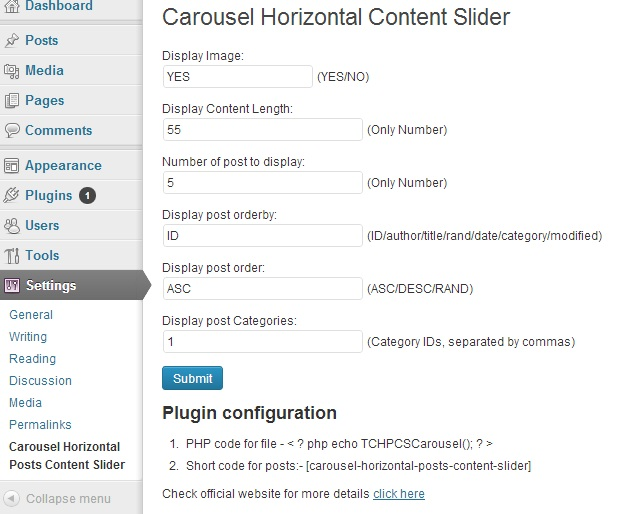
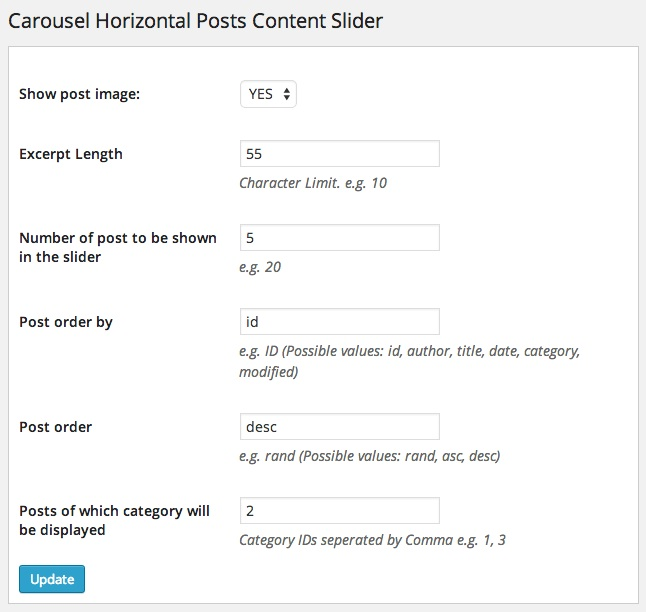
tagging version 3.2
git-svn-id: https://plugins.svn.wordpress.org/carousel-horizontal-posts-content-slider/tags/3.2@923567 b8457f37-d9ea-0310-8a92-e5e31aec5664

diff --git a/css/custom-style.css b/css/custom-style.css
@@ -1,51 +1,60 @@
 @CHARSET "ISO-8859-1";
+.chpcs_clearfix {
+	float: none;
+	clear: both;
+}
 
-h2{
-	clear:none;
-	line-height:15px;
-	font-family:Georgia,serif;
-	font-size:12px;
+/*read more text */
+.chpcs_more{
+	color:#ca7700;
+	font-family:Verdana,Geneva,sans-serif;
+	font-size:11px;"
+}
+
+.chpcs_foo_con{
+	font-family:Verdana,Geneva,sans-serif;
+	font-size:11px;
 	font-weight:normal;
 	font-style:normal;
-	color:#000;
-	margin:0 0 5px 0;"
+	color:#222222;
 	width:140px;
 	height:auto;
 }
 
-.more{
-	
-	color:#ca7700;
-	font-family:Verdana,Geneva,sans-serif;
-	font-size:11px;"
-	
+.chpcs_image_carousel h2{
+	font-size: 14px;
 }
 
-.foo_con{
-
-font-family:Verdana,Geneva,sans-serif;
-font-size:11px;
-font-weight:normal;
-font-style:normal;
-color:#222222;
-width:140px;
-height:auto;
-}
-
-.image_carousel {
+.chpcs_image_carousel {
 	padding: 15px 0 15px 40px;
 	position: relative;
 }
-.image_carousel img {
+
+/*  image of posts on slider */
+.chpcs_image_carousel img {
 	border: 1px solid #ccc;
 	background-color: white;
 	padding: 9px;
 	margin:5px 0 5px 0;"
 	display: block;
 	float: left;
-	
+	width: 115px;
+	height: 115px;
 }
-a.prev, a.next {
+
+#chpcs_foo_content{
+	padding: 9px;
+	margin: 7px;
+	display: block;
+	float: left;
+	height:auto;
+	width:150px;
+	min-height:150px;
+	max-height:280px;
+}
+
+/* Controls of Slider */
+a.chpcs_prev, a.chpcs_next {
 	background: url(../images/miscellaneous_sprite.png) no-repeat transparent;
 	width: 45px;
 	height: 50px;
@@ -53,34 +62,13 @@ a.prev, a.next {
 	position: absolute;
 	top: 85px;
 }
-
-#foo_content{
-	
-	padding: 9px;
-	margin: 7px;
-	display: block;
-	float: left;
-	height:auto;
-
-	width:150px;
-	min-height:150px;
-	max-height:280px;
-	
-	
-}
-
-
-a.prev {			left: -22px;
+a.chpcs_prev {			left: -22px;
 					background-position: 0 0; }
-a.prev:hover {		background-position: 0 -50px; }
-a.next {			right: -22px;
+a.chpcs_prev:hover {		background-position: 0 -50px; }
+a.chpcs_next {			right: -22px;
 					background-position: -50px 0; }
-a.next:hover {		background-position: -50px -50px; }
+a.chpcs_next:hover {		background-position: -50px -50px; }
 
-a.prev span, a.next span {
+a.chpcs_prev span, a.chpcs_next span {
 	display: none;
-}
-.clearfix {
-	float: none;
-	clear: both;
 }

diff --git a/slider-management.php b/slider-management.php
@@ -1,16 +1,11 @@
 <?php
-echo "<div class='wrap'>";
-echo "<h2>";
-echo "Carousel Horizontal Content Slider";
-echo "</h2>";
 $tchpcs_displayimage = get_option('tchpcs_displayimage');
 $tchpcs_displaydesc = get_option('tchpcs_word_limit');
 $tchpcs_query_posts_showposts = get_option('tchpcs_query_posts_showposts');
 $tchpcs_query_posts_orderby= get_option('tchpcs_query_posts_orderby');
 $tchpcs_query_posts_order= get_option('tchpcs_query_posts_order');
 $tchpcs_query_posts_category= get_option('tchpcs_query_posts_category');
-if (@$_POST['tchpcs_submit'])
-{
+if (@$_POST['tchpcs_submit']) {
 
 	$tchpcs_displayimage = stripslashes($_POST['tchpcs_displayimage']);
 	$tchpcs_displaydesc = stripslashes($_POST['tchpcs_displaydesc']);
@@ -25,34 +20,49 @@ if (@$_POST['tchpcs_submit'])
 	update_option('tchpcs_query_posts_orderby', $tchpcs_query_posts_orderby );
 	update_option('tchpcs_query_posts_order', $tchpcs_query_posts_order );
 	update_option('tchpcs_query_posts_category', $tchpcs_query_posts_category );
-
 }
+$fimg = array('YES'=>'YES',
+            'NO'=>'NO');?>
 
-echo '<form name="tchpcs_form" method="post" action="">';
+<h2>Carousel Horizontal Posts Content Slider</h2>
+<form name="tchpcs_form" method="post" action="" style="border:1px solid #ccc;padding:10px;background:#fff;margin:0; width:50%;">
 
-echo '<p>Display Image:<br><input  style="width: 150px;" maxlength="3" type="text" value="';
-echo $tchpcs_displayimage . '" name="tchpcs_displayimage" id="tchpcs_displayimage" /> (YES/NO)</p>';
+      <table class="form-table">
+		<tbody>
+<tr class="form-field form-required">
+			<th scope="row"><label for="name">Show post image:</label></th>
+			<td>	<select name="tchpcs_displayimage" id="tchpcs_displayimage">
+      <?php foreach ($fimg  as $key => $value) {?>
+      <option value="<?php echo $key; ?>" <?php if($key==$tchpcs_displayimage){echo "selected";}?>><?php echo $value;?></option>
+      <?php }?>
+    </select></td>
+		</tr>
 
-echo '<p>Display Content Length:<br><input  style="width: 200px;" maxlength="4" type="text" value="';
-echo $tchpcs_displaydesc . '" name="tchpcs_displaydesc" id="tchpcs_displaydesc" /> (Only Number)</p>';
+<tr class="form-field form-required"><th scope="row"><label for="name">Excerpt Length</label></th><td><input  style="width: 200px;" maxlength="4" type="text" value="<?php echo $tchpcs_displaydesc; ?>" name="tchpcs_displaydesc" id="tchpcs_displaydesc" /> 
+<p class="description">Character Limit. e.g. 10</p></td></tr>
 
-echo '<p>Number of post to display:<br><input  style="width: 200px;" maxlength="2" type="text" value="';
-echo $tchpcs_query_posts_showposts . '" name="tchpcs_query_posts_showposts" id="tchpcs_query_posts_showposts" /> (Only Number)</p>';
+<tr class="form-field form-required"><th scope="row"><label for="name">Number of post to be shown in the slider</label></th><td><input  style="width: 200px;" maxlength="2" type="text" value="<?php echo $tchpcs_query_posts_showposts; ?>" name="tchpcs_query_posts_showposts" id="tchpcs_query_posts_showposts" />
+<p class="description">e.g. 20</p></td></tr>
 
-echo '<p>Display post orderby:<br><input  style="width: 200px;" maxlength="100" type="text" value="';
-echo $tchpcs_query_posts_orderby . '" name="tchpcs_query_posts_orderby" id="tchpcs_query_posts_orderby" /> (ID/author/title/rand/date/category/modified)</p>';
-echo '<p>Display post order:<br><input  style="width: 200px;" maxlength="100" type="text" value="';
-echo $tchpcs_query_posts_order . '" name="tchpcs_query_posts_order" id="tchpcs_query_posts_order" /> (ASC/DESC/RAND)</p>';
-echo '<p>Display post Categories:<br><input  style="width: 200px;" maxlength="100" type="text" value="';
-echo $tchpcs_query_posts_category . '" name="tchpcs_query_posts_category" id="tchpcs_query_posts_category" /> (Category IDs, separated by commas)</p>';
-echo '<input name="tchpcs_submit" id="tchpcs_submit" class="button-primary" value="Submit" type="submit" />';
-echo '</form>';
-echo '</div>';?>
-<h2>Plugin configuration</h2>
-<ol>
-	<li>PHP code for file - < ? php echo TCHPCSCarousel(); ? ></li>
-	<li>Short code for posts:-
-		[carousel-horizontal-posts-content-slider]</li>
-		</ol>
-Please, Check Premium version of this plugin for more features such as multiple sliders for different categories etc.
-<a href="http://www.backraw.com/" target="_blank">click here</a>
+<tr class="form-field form-required"><th scope="row"><label for="name">Post order by</label></th><td><input  style="width: 200px;" maxlength="100" type="text" value="<?php echo $tchpcs_query_posts_orderby; ?>" name="tchpcs_query_posts_orderby" id="tchpcs_query_posts_orderby" /> <p class="description">e.g. ID (Possible values: id, author, title, date, category, modified)</p></td></tr>
+
+<tr class="form-field form-required"><th scope="row"><label for="name">Post order</label></th><td><input  style="width: 200px;" maxlength="100" type="text" value="<?php echo $tchpcs_query_posts_order; ?>" name="tchpcs_query_posts_order" id="tchpcs_query_posts_order" /> 
+<p class="description">e.g. rand (Possible values: rand, asc, desc)</p></td></tr>
+
+<tr class="form-field form-required"><th scope="row"><label for="name">Posts of which category will be displayed</label></th><td><input  style="width: 200px;" maxlength="100" type="text" value="<?php echo $tchpcs_query_posts_category;?>" name="tchpcs_query_posts_category" id="tchpcs_query_posts_category" /> <p class="description">Category IDs seperated by Comma e.g. 1, 3</p></td></tr>
+</tbody>
+</table>
+<input name="tchpcs_submit" id="tchpcs_submit" class="button-primary" value="Update" type="submit" />
+
+</form><br/>
+
+<form name="tchpcs_form" method="post" action="" style="border:1px solid #ccc;padding:10px;background:#fff;margin:0; width:50%;">
+<p>Shortcode: [carousel-horizontal-posts-content-slider]</p>
+<p>Template tag: <?php echo htmlspecialchars("<?php if(function_exists('TCHPCSCarousel')){ echo TCHPCSCarousel();} ?>"); ?></p>
+
+</form>
+
+<br/>
+
+<form name="tchpcs_form" method="post" action="" style="border:1px solid #ccc;padding:10px;background:#fff;margin:0; width:50%;">
+<a style ="text-decoration:none; font-size:14px;" href="http://weaveapps.com/shop/wordpress-plugins/carousel-horizontal-posts-slider-wordpress-plugin/" target="_blank">Need more sliders? Looking for more features? Upgrade Carousel Horizontal Posts Content Slider "Pro" here.</a></form>

diff --git a/carousel-horizontal-posts-content-slider.php b/carousel-horizontal-posts-content-slider.php
@@ -1,12 +1,11 @@
 <?php
-
 /*
 Plugin Name: Carousel Horizontal Posts Content Slider
-Description: This is Jquery based image horizontal slider plugin, it is using tiny carousel light weight jquery script to the slideshow.
+Description: This is JQuery CarouFredSel library based WordPress horizontal posts content slider.
 Author: subhansanjaya
-Version: 3.0
-Plugin URI: http://www.backraw.com/plugins/carousel-horizontal-posts-content-slider.zip
-Author URI: http://www.backraw.com
+Version: 3.2
+Plugin URI: http://wordpress.org/plugins/carousel-horizontal-posts-content-slider/
+Author URI: http://www.weaveapps.com.com
 Donate link: https://www.paypal.com/cgi-bin/webscr?cmd=_s-xclick&hosted_button_id=BXBCGCKDD74UE
 License: GPLv2 or later
 License URI: http://www.gnu.org/licenses/gpl-2.0.html
@@ -15,12 +14,11 @@ global $wpdb, $wp_version;
 //add shortcode
 add_shortcode( 'carousel-horizontal-posts-content-slider', 'Carousel_shortcode' );
 //page function
-function TCHPCSCarousel()
-{
+function TCHPCSCarousel() {
 	echo Carousel_shortcode();
 }
-function Carousel_shortcode()
-{
+
+function Carousel_shortcode() {
 	global $wpdb;
 	$displayimage = get_option('tchpcs_displayimage');
 	$word_imit = get_option('tchpcs_word_limit');
@@ -32,7 +30,7 @@ function Carousel_shortcode()
 	//Image slider
 	global $post;
 
-	$slider_gallery.= '<div class="image_carousel">';
+	$slider_gallery.= '<div class="chpcs_image_carousel">';
 	$slider_gallery.='<div id="foo1">';
 
 	$args = array( 'numberposts' => $qp_showposts,  'category' => $qp_category, 'order'=> $qp_order, 'orderby' => $qp_orderby, 'post_type' => 'any'  );
@@ -41,44 +39,41 @@ function Carousel_shortcode()
 
 		$post_title = $post->post_title;
 		$post_link =  get_permalink($post->ID);
-		$post_content = $post->post_content;
+		$post_content = strip_shortcodes($post->post_content);
 		$displaydesc= $word_imit;
 
-		$slider_gallery.= '<div id="foo_content">';
+		$slider_gallery.= '<div id="chpcs_foo_content">';
 
 		if($displayimage=="YES"){
-		
-		
-			 if (has_post_thumbnail( $post->ID ) ): 
+			if (has_post_thumbnail( $post->ID ) ): 
 			$image = wp_get_attachment_image_src( get_post_thumbnail_id( $post->ID ), 'single-post-thumbnail' ); 
 			endif; 
 			
+			//featured image
+			if(empty($image[0])) {
+    		$image = plugins_url()."/carousel-horizontal-posts-content-slider/images/default-image.jpg";
+    					$featured_img = "<img  src='". $image . "' " . $attributes . " />";
+  			}else{
+						$featured_img = "<img src='". $image[0] . "' " . $attributes . " />";
 
-			$featured_img = "<img width='115' height='115' src='". $image[0] . "' " . $attributes . " />";
-			
-
-			
+  			}
 			$slider_gallery.= '<a href="'.$post_link.'">'.$featured_img.'</a>';
 		}
 		
-		
-
 		//Post title, Post Description, Post read more
 		$slider_gallery.= '<br/><h2><a  style=" text-decoration:none;" href="'.$post_link.'">'.$post_title.'</a></h2><br/>';
-		$slider_gallery.= '<p><span class="foo_con">'.tchpcs_clean($post_content, $displaydesc).'</span></p>...';
+		$slider_gallery.= '<p><span class="chpcs_foo_con">'.tchpcs_clean($post_content, $displaydesc).'...</span></p>';
 
-		$slider_gallery.= '<br/><span class="more"><a href="'.$post_link.'">read more</a></span>';
+		$slider_gallery.= '<br/><span class="chpcs_more"><a href="'.$post_link.'">read more</a></span>';
 		$slider_gallery.= '</div>';
 
 	}
 
-
 	$slider_gallery.='</div>';
-	$slider_gallery.='<div class="clearfix"></div>';
-	$slider_gallery.='<a class="prev" id="foo1_prev" href="#"><span>prev</span></a>';
-	$slider_gallery.='<a class="next" id="foo1_next" href="#"><span>next</span></a>';
+	$slider_gallery.='<div class="chpcs_clearfix"></div>';
+	$slider_gallery.='<a class="chpcs_prev" id="foo1_prev" href="#"><span>prev</span></a>';
+	$slider_gallery.='<a class="chpcs_next" id="foo1_next" href="#"><span>next</span></a>';
 	$slider_gallery.='</div>';
-
 
 	return $slider_gallery;
 
@@ -95,7 +90,7 @@ function Carousel_add_javascript_files()
 
 		wp_enqueue_script('jquery');
 
-		wp_register_script( 'tiny_js', plugins_url('/inc/jquery.carouFredSel-6.2.1.js',__FILE__ ));
+		wp_register_script( 'tiny_js', plugins_url('/inc/jquery.carouFredSel-6.2.1-packed.js',__FILE__ ));
 		wp_enqueue_script('tiny_js');
 
 		wp_register_script( 'custom_js', plugins_url('/inc/custom.js',__FILE__ ));
@@ -107,7 +102,6 @@ function Carousel_add_javascript_files()
 add_action('init', 'Carousel_add_javascript_files');
 
 //Post image attachment (sizes: thumbnail, medium, full)
-
 function attachment_image_filter($postid=0, $size='thumbnail', $attributes='') {
 	if ($postid<1) $postid = get_the_ID();
 	if ($images = get_children(array(
@@ -119,20 +113,22 @@ function attachment_image_filter($postid=0, $size='thumbnail', $attributes='') {
 		{
 			$attachment=wp_get_attachment_image_src($image->ID, $size);
 
-			//custermize css, foo_content size accordint to your image with and height, ex img width= 140 height=140, css file- foo_content{ width 160px }
-				
-			return "<img width='115' height='115' src='". $attachment[0] . "' " . $attributes . " />";
+			  if(empty($attachment[0])) {
+    		$first_img = plugins_url()."/carousel-horizontal-posts-content-slider/images/default-image.jpg";
+    		return "<img  src='". $first_img . "' " . $attributes . " />";
+  			}else{
+
+			return "<img  src='". $attachment[0] . "' " . $attributes . " />";
+
+  			}
 		}
 }
 
 //limit words
 function tchpcs_clean($excerpt, $substr) {
-	$string = $excerpt;
-	$string = substr($string, 0, $substr);
-
+	$string = substr($excerpt, 0, $substr);
 	return $string;
 }
-
 
 
 function tchpcs_admin_options()
@@ -162,8 +158,8 @@ function tchpcs_install()
 	add_option('tchpcs_displayimage', "YES");
 	add_option('tchpcs_word_limit', "55");
 	add_option('tchpcs_query_posts_showposts', "5");
-	add_option('tchpcs_query_posts_orderby', "rand");
-	add_option('tchpcs_query_posts_order', "DESC");
+	add_option('tchpcs_query_posts_orderby', "id");
+	add_option('tchpcs_query_posts_order', "desc");
 	add_option('tchpcs_query_posts_category', "1");
 }
 ?>
